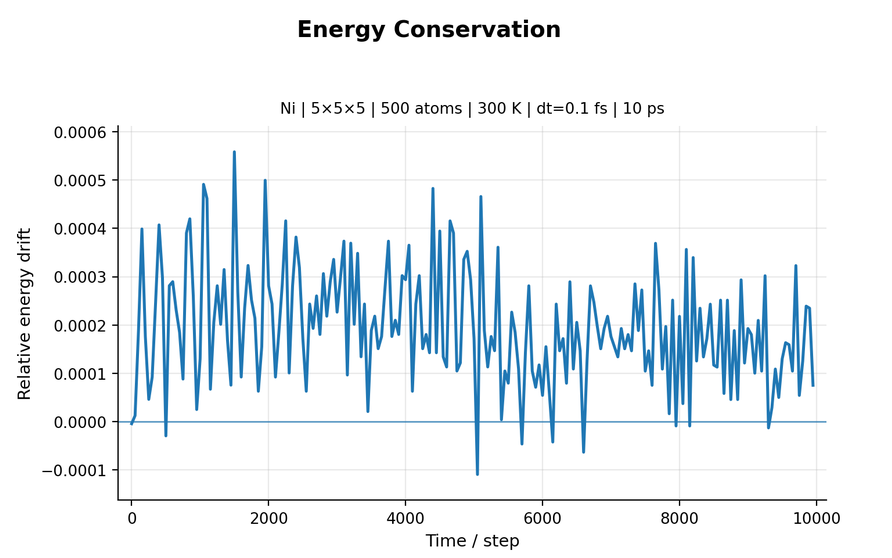
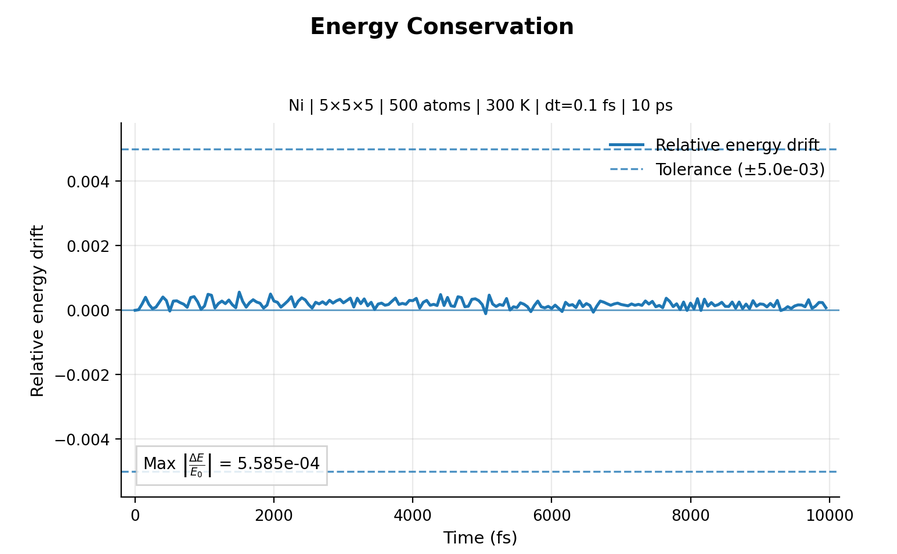
updated validation plots and readme pics

diff --git a/streamlit_app.py b/streamlit_app.py
@@ -447,11 +447,70 @@ def plot_analysis(results: dict[str, Any], choice: str):
 def plot_validation(results: dict[str, Any], choice: str):
     if choice == "Energy conservation" and "energy_drift" in results:
         d = results["energy_drift"]
-        y = d.get("rel_drift", d.get("relative_drift", d.get("drift", [])))
-        x = d.get("times", d.get("time", d.get("steps", np.arange(len(_as_array(y))))))
-        fig, ax = _mpl_figure("Energy Conservation", "Time / step", "Relative energy drift", _subtitle_from_results(results))
-        ax.plot(x, y, linewidth=1.8)
-        ax.axhline(0.0, linewidth=1.0, alpha=0.7)
+        y = np.asarray(
+            d.get("rel_drift", d.get("relative_drift", d.get("drift", []))),
+            dtype=float,
+        )
+        x = np.asarray(
+            d.get("times", d.get("time", d.get("steps", np.arange(len(y))))),
+            dtype=float,
+        )
+
+        xlabel = "Time (fs)" if "times" in d or "time" in d else "Step"
+        fig, ax = _mpl_figure(
+            "Energy Conservation",
+            xlabel,
+            "Relative energy drift",
+            _subtitle_from_results(results),
+        )
+
+        if len(x) and len(y):
+            n = min(len(x), len(y))
+            x = x[:n]
+            y = y[:n]
+            ax.plot(x, y, linewidth=1.8, label="Relative energy drift")
+            ax.axhline(0.0, linewidth=1.0, alpha=0.7)
+
+            tolerance = results.get("tolerances", {}).get("energy_drift")
+            if tolerance is not None:
+                tolerance = float(tolerance)
+                ax.axhline(
+                    tolerance,
+                    linestyle="--",
+                    linewidth=1.2,
+                    alpha=0.8,
+                    label=f"Tolerance (±{tolerance:.1e})",
+                )
+                ax.axhline(
+                    -tolerance,
+                    linestyle="--",
+                    linewidth=1.2,
+                    alpha=0.8,
+                )
+
+            finite_y = y[np.isfinite(y)]
+            if finite_y.size:
+                max_drift = float(np.max(np.abs(finite_y)))
+                status = "PASS" if tolerance is not None and max_drift <= tolerance else "FAIL"
+                if tolerance is None:
+                    status = ""
+                annotation = (
+                    r"Max $\left|\frac{\Delta E}{E_0}\right|$"
+                    f" = {max_drift:.3e}"
+                )
+                ax.text(
+                    0.03,
+                    0.05,
+                    annotation,
+                    transform=ax.transAxes,
+                    va="bottom",
+                    ha="left",
+                    bbox=dict(facecolor="white", alpha=0.85, edgecolor="0.8"),
+                )
+
+            ax.legend(frameon=False)
+        else:
+            ax.text(0.5, 0.5, "No energy-drift data", ha="center", va="center", transform=ax.transAxes)
 
     elif choice == "Momentum conservation" and "momentum" in results:
         d = results["momentum"]
@@ -465,23 +524,82 @@ def plot_validation(results: dict[str, Any], choice: str):
         errors = d.get("errors", {})
         if isinstance(errors, dict):
             items = sorted((float(k), float(v)) for k, v in errors.items())
-            dt_vals = np.array([k for k, _ in items])
-            err_vals = np.array([v for _, v in items])
+            dt_vals = np.array([k for k, _ in items], dtype=float)
+            err_vals = np.array([v for _, v in items], dtype=float)
         else:
             dt_vals = np.asarray(d.get("dt_values", []), dtype=float)
             err_vals = np.asarray(errors, dtype=float)
 
-        fig, ax = _mpl_figure("Timestep Convergence", "dt (fs)", "RMS position error (Å)", _convergence_subtitle_from_results(results))
-        if len(dt_vals) and len(err_vals):
+        fig, ax = _mpl_figure(
+            "Timestep Convergence",
+            "Timestep (fs)",
+            "RMS position error (Å)",
+            _convergence_subtitle_from_results(results),
+        )
+
+        valid = (
+            np.isfinite(dt_vals)
+            & np.isfinite(err_vals)
+            & (dt_vals > 0.0)
+            & (err_vals > 0.0)
+        )
+        dt_vals = dt_vals[valid]
+        err_vals = err_vals[valid]
+
+        if len(dt_vals):
+            order_idx = np.argsort(dt_vals)
+            dt_vals = dt_vals[order_idx]
+            err_vals = err_vals[order_idx]
+
+            ax.loglog(
+                dt_vals,
+                err_vals,
+                marker="o",
+                markersize=6,
+                linewidth=2.0,
+                label="Measured error",
+            )
+
+            # Anchor both guide lines at the finest-step measured error.
+            dt_ref = dt_vals[0]
+            err_ref = err_vals[0]
+            ax.loglog(
+                dt_vals,
+                err_ref * (dt_vals / dt_ref),
+                linestyle="--",
+                linewidth=1.3,
+                label=r"$\mathcal{O}(\Delta t)$ reference",
+            )
+            ax.loglog(
+                dt_vals,
+                err_ref * (dt_vals / dt_ref) ** 2,
+                linestyle="--",
+                linewidth=1.3,
+                label=r"$\mathcal{O}(\Delta t^2)$ reference",
+            )
+
             order = d.get("order")
-            label = "Position error" if order is None else f"Position error, order ≈ {float(order):.2f}"
-            ax.loglog(dt_vals, err_vals, marker="o", linewidth=1.8, label=label)
+            if order is not None:
+                try:
+                    order_text = f"Observed order = {float(order):.2f}"
+                except (TypeError, ValueError):
+                    order_text = f"Observed order = {order}"
+                ax.text(
+                    0.03,
+                    0.05,
+                    order_text,
+                    transform=ax.transAxes,
+                    va="bottom",
+                    ha="left",
+                    bbox=dict(facecolor="white", alpha=0.85, edgecolor="0.8"),
+                )
+
             ax.set_xticks(dt_vals)
             ax.set_xticklabels([f"{v:g}" for v in dt_vals])
             ax.invert_xaxis()
             ax.legend(frameon=False)
         else:
-            ax.text(0.5, 0.5, "No convergence data", ha="center", va="center", transform=ax.transAxes)
+            ax.text(0.5, 0.5, "No positive convergence data", ha="center", va="center", transform=ax.transAxes)
 
     elif choice == "Temperature stability" and "temperature_stability" in results:
         d = results["temperature_stability"]
